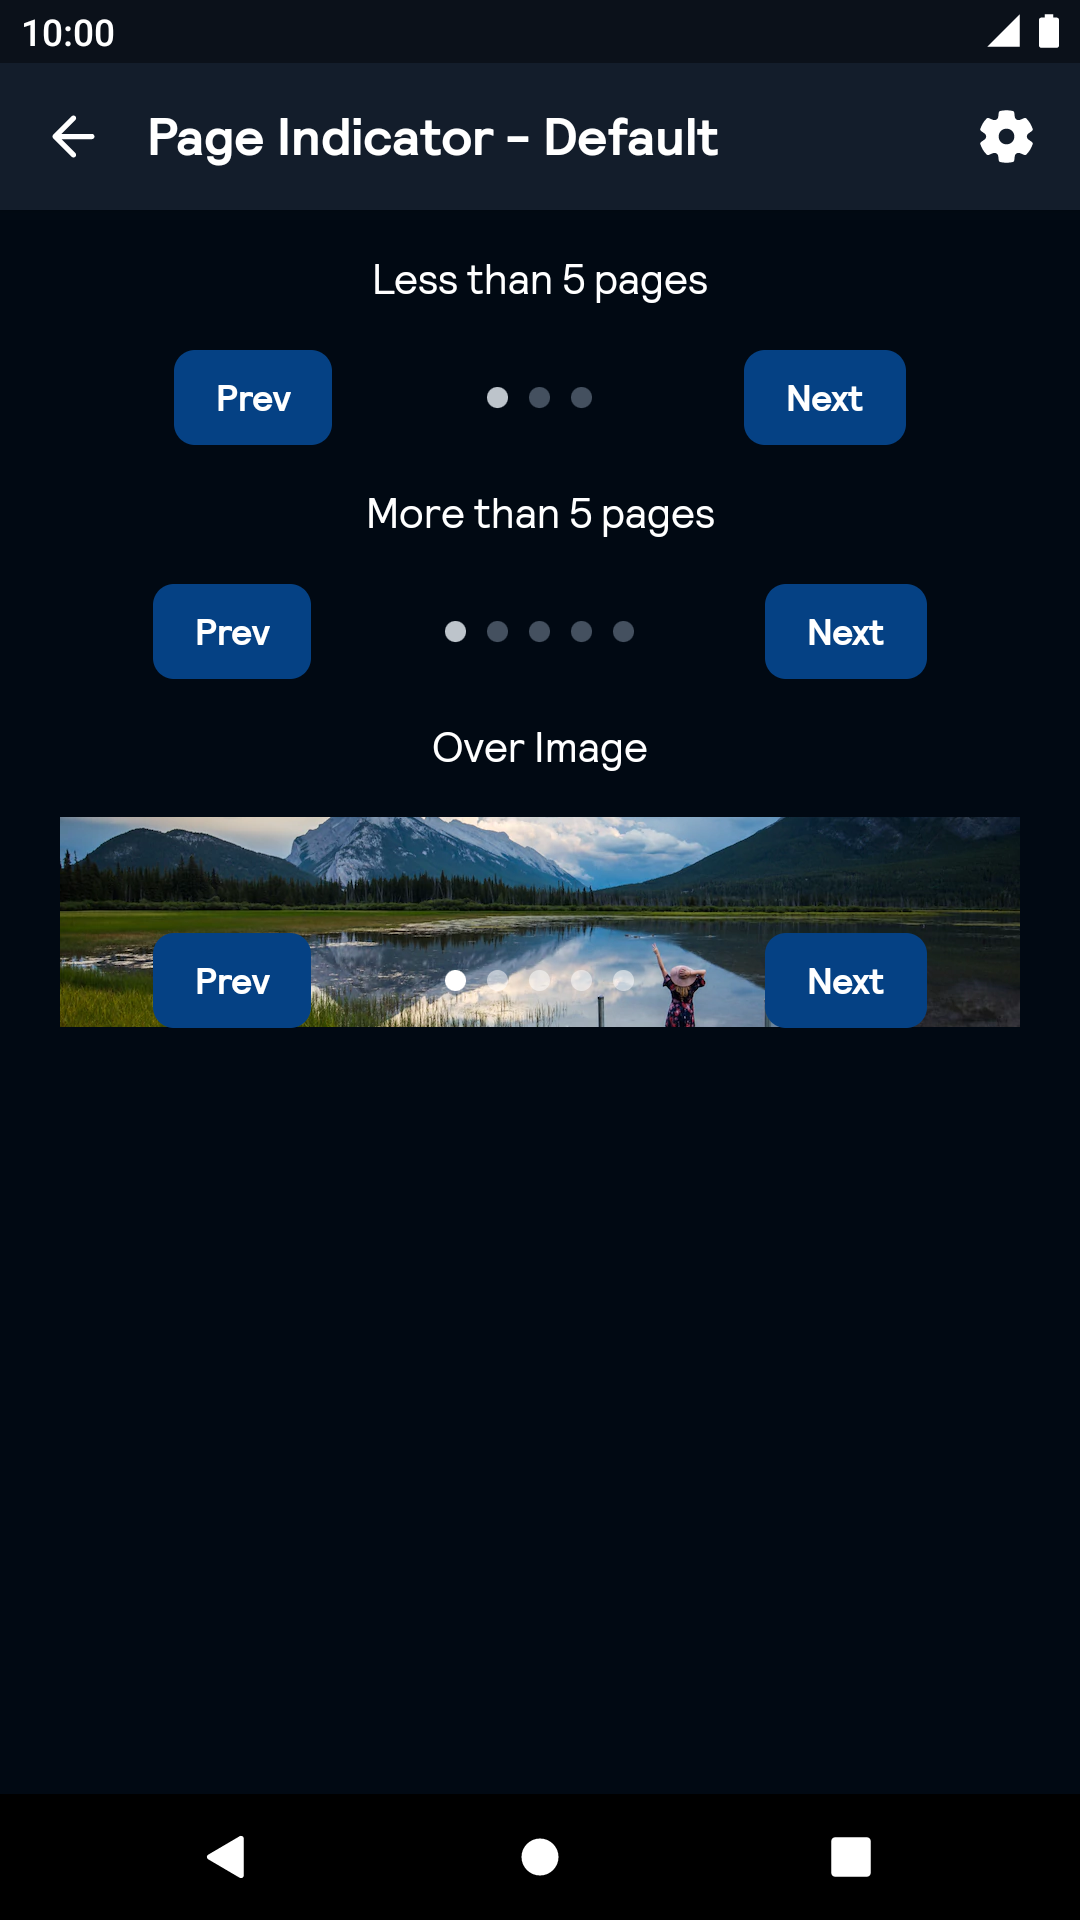
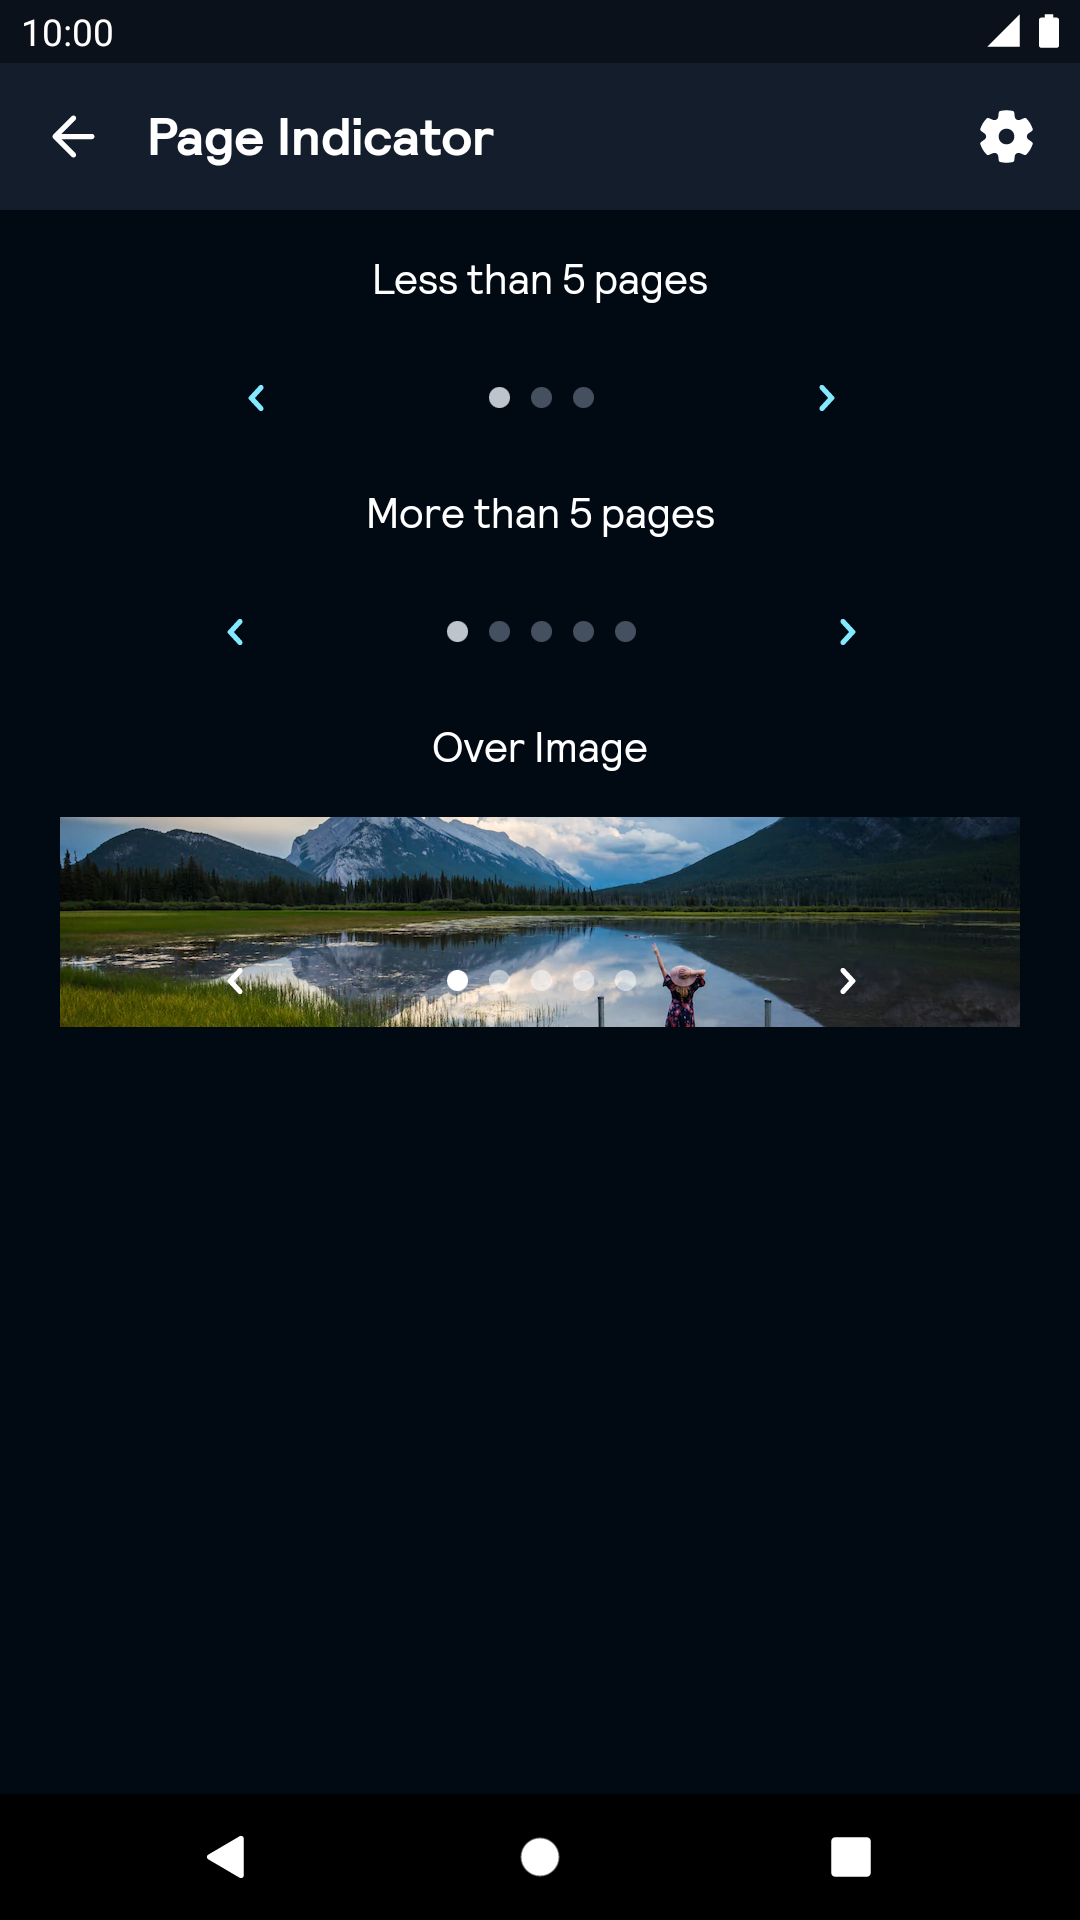
KOA-6112 Update Page Indicator demo (#1608)
* Updated PageIndicatorStory

* Updated the screenshots

diff --git a/app/src/main/java/net/skyscanner/backpack/demo/compose/PageIndicatorStory.kt b/app/src/main/java/net/skyscanner/backpack/demo/compose/PageIndicatorStory.kt
@@ -38,10 +38,14 @@ import androidx.compose.ui.layout.ContentScale
 import androidx.compose.ui.res.painterResource
 import androidx.compose.ui.res.stringResource
 import net.skyscanner.backpack.compose.button.BpkButton
+import net.skyscanner.backpack.compose.button.BpkButtonType
+import net.skyscanner.backpack.compose.icon.BpkIcon
 import net.skyscanner.backpack.compose.pageindicator.BpkPageIndicator
 import net.skyscanner.backpack.compose.pageindicator.BpkPageIndicatorStyle
 import net.skyscanner.backpack.compose.text.BpkText
 import net.skyscanner.backpack.compose.tokens.BpkSpacing
+import net.skyscanner.backpack.compose.tokens.ChevronLeft
+import net.skyscanner.backpack.compose.tokens.ChevronRight
 import net.skyscanner.backpack.demo.R
 import net.skyscanner.backpack.demo.components.PageIndicatorComponent
 import net.skyscanner.backpack.demo.meta.ComposeStory
@@ -76,7 +80,11 @@ fun PageIndicatorStory(modifier: Modifier = Modifier) {
                 contentDescription = "",
                 contentScale = ContentScale.FillWidth,
             )
-            PageIndicatorSample(totalIndicators = 8, style = BpkPageIndicatorStyle.OverImage)
+            PageIndicatorSample(
+                totalIndicators = 8,
+                style = BpkPageIndicatorStyle.OverImage,
+                buttonType = BpkButtonType.LinkOnDark,
+            )
         }
     }
 }
@@ -86,6 +94,7 @@ private fun PageIndicatorSample(
     totalIndicators: Int,
     style: BpkPageIndicatorStyle,
     modifier: Modifier = Modifier,
+    buttonType: BpkButtonType = BpkButtonType.Link,
 ) {
     var currentIndex by remember { mutableStateOf(0) }
 
@@ -94,7 +103,10 @@ private fun PageIndicatorSample(
         horizontalArrangement = Arrangement.SpaceEvenly,
         verticalAlignment = Alignment.CenterVertically,
     ) {
-        BpkButton(text = stringResource(id = R.string.page_indicator_prev)) {
+        BpkButton(icon = BpkIcon.ChevronLeft,
+            type = buttonType,
+            contentDescription = stringResource(R.string.page_indicator_prev),
+        ) {
             currentIndex = (currentIndex - 1).coerceIn(0 until totalIndicators)
         }
         BpkPageIndicator(
@@ -102,7 +114,11 @@ private fun PageIndicatorSample(
             totalIndicators = totalIndicators,
             style = style,
         )
-        BpkButton(text = stringResource(id = R.string.page_indicator_next)) {
+        BpkButton(
+            icon = BpkIcon.ChevronRight,
+            type = buttonType,
+            contentDescription = stringResource(R.string.page_indicator_next),
+        ) {
             currentIndex = (currentIndex + 1).coerceIn(0 until totalIndicators)
         }
     }
